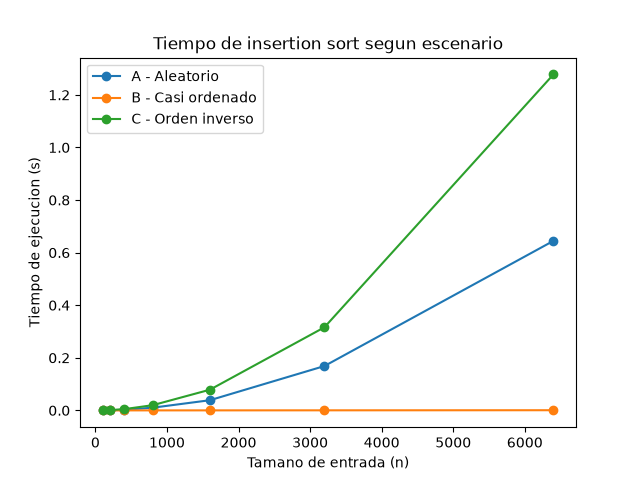
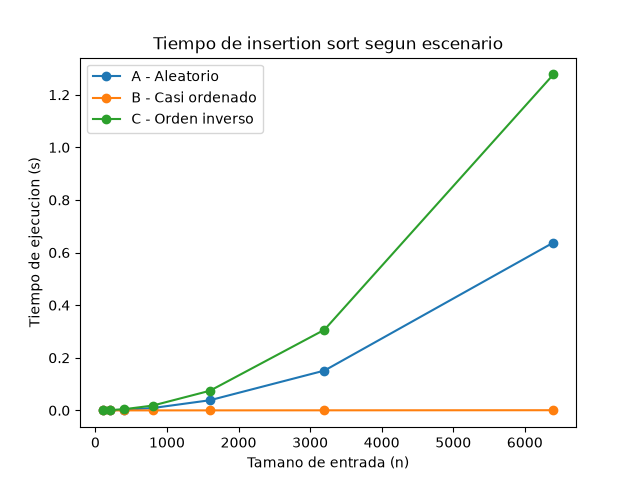
Corrige laboratorio 1 segun retroalimentacion

diff --git a/lab1-fundamentos-complejidad-recurrencias/parte4_complejidad.py b/lab1-fundamentos-complejidad-recurrencias/parte4_complejidad.py
@@ -3,14 +3,22 @@
 import time
 import matplotlib.pyplot as plt
 
-from algoritmos import insertion_sort, merge_sort
+from algoritmos import insertion_sort, mediana_de_tres, merge_sort
 from datos import generar_aleatorio
 
 TAMANOS = [100, 200, 400, 800, 1600, 3200, 6400]
 REPETICIONES = 3
 
 
-def medir():
+def medir() -> tuple[list[float], list[float]]:
+    """Mide el tiempo de insertion sort y merge sort en el escenario A.
+
+    Cada tamano se mide REPETICIONES veces y se reporta la mediana.
+
+    Returns:
+        Una tupla con la lista de tiempos (segundos) de insertion sort
+        y la de merge sort, una entrada por cada tamano de TAMANOS.
+    """
     tiempos_insertion, tiempos_merge = [], []
     for n in TAMANOS:
         lote = generar_aleatorio(n)
@@ -20,19 +28,25 @@ def medir():
             inicio = time.perf_counter()
             insertion_sort(lote)
             reps.append(time.perf_counter() - inicio)
-        tiempos_insertion.append(sorted(reps)[REPETICIONES // 2])
+        tiempos_insertion.append(mediana_de_tres(*reps))
 
         reps = []
         for _ in range(REPETICIONES):
             inicio = time.perf_counter()
             merge_sort(lote)
             reps.append(time.perf_counter() - inicio)
-        tiempos_merge.append(sorted(reps)[REPETICIONES // 2])
+        tiempos_merge.append(mediana_de_tres(*reps))
 
     return tiempos_insertion, tiempos_merge
 
 
-def graficar(tiempos_insertion, tiempos_merge):
+def graficar(tiempos_insertion: list[float], tiempos_merge: list[float]) -> None:
+    """Genera y guarda la grafica de tiempo de ambos algoritmos.
+
+    Args:
+        tiempos_insertion: tiempos de insertion sort por tamano.
+        tiempos_merge: tiempos de merge sort por tamano.
+    """
     plt.figure()
     plt.plot(TAMANOS, tiempos_insertion, marker="o", label="Insertion sort")
     plt.plot(TAMANOS, tiempos_merge, marker="o", label="Merge sort")

diff --git a/lab1-fundamentos-complejidad-recurrencias/parte3_casos.py b/lab1-fundamentos-complejidad-recurrencias/parte3_casos.py
@@ -3,7 +3,7 @@
 import time
 import matplotlib.pyplot as plt
 
-from algoritmos import insertion_sort
+from algoritmos import insertion_sort, mediana_de_tres
 from datos import generar_aleatorio, generar_casi_ordenado, generar_inverso
 
 TAMANOS = [100, 200, 400, 800, 1600, 3200, 6400]
@@ -16,7 +16,16 @@ ESCENARIOS = {
 }
 
 
-def medir():
+def medir() -> dict[str, dict[str, list]]:
+    """Mide tiempo y comparaciones de insertion sort en cada escenario.
+
+    Cada tamano se mide REPETICIONES veces y se reporta la mediana
+    del tiempo.
+
+    Returns:
+        Diccionario por escenario con las listas "tiempos" (segundos)
+        y "comparaciones", una entrada por cada tamano de TAMANOS.
+    """
     resultados = {nombre: {"tiempos": [], "comparaciones": []} for nombre in ESCENARIOS}
     for nombre, generador in ESCENARIOS.items():
         for n in TAMANOS:
@@ -27,12 +36,17 @@ def medir():
                 inicio = time.perf_counter()
                 _, comparaciones = insertion_sort(lote)
                 tiempos_rep.append(time.perf_counter() - inicio)
-            resultados[nombre]["tiempos"].append(sorted(tiempos_rep)[REPETICIONES // 2])
+            resultados[nombre]["tiempos"].append(mediana_de_tres(*tiempos_rep))
             resultados[nombre]["comparaciones"].append(comparaciones)
     return resultados
 
 
-def graficar(resultados):
+def graficar(resultados: dict[str, dict[str, list]]) -> None:
+    """Genera y guarda las graficas de comparaciones y de tiempo.
+
+    Args:
+        resultados: diccionario devuelto por medir().
+    """
     plt.figure()
     for nombre, datos in resultados.items():
         plt.plot(TAMANOS, datos["comparaciones"], marker="o", label=nombre)

diff --git a/lab1-fundamentos-complejidad-recurrencias/algoritmos.py b/lab1-fundamentos-complejidad-recurrencias/algoritmos.py
@@ -42,12 +42,24 @@ def merge_sort(datos: list[int]) -> tuple[list[int], int]:
         comparaciones entre elementos realizadas durante el proceso.
     """
     def _mezclar_ordenar(lista: list[int]) -> tuple[list[int], int]:
+        """Divide la lista en dos mitades, las ordena y las mezcla.
+
+        En un empate toma primero el elemento de la izquierda, lo que
+        hace al algoritmo estable.
+
+        Args:
+            lista: sublista de indices de riesgo a ordenar.
+
+        Returns:
+            Una tupla con la sublista ordenada de mayor a menor y el
+            numero de comparaciones realizadas.
+        """
         if len(lista) <= 1:
             return lista, 0
         medio = len(lista) // 2
         izq, comp_izq = _mezclar_ordenar(lista[:medio])
         der, comp_der = _mezclar_ordenar(lista[medio:])
-        resultado = []
+        resultado : list[int] = []
         i = j = 0
         comparaciones = comp_izq + comp_der
         while i < len(izq) and j < len(der):
@@ -63,3 +75,17 @@ def merge_sort(datos: list[int]) -> tuple[list[int], int]:
         return resultado, comparaciones
 
     return _mezclar_ordenar(datos.copy())
+
+
+def mediana_de_tres(a: float, b: float, c: float) -> float:
+    """Devuelve la mediana de tres valores sin usar funciones de ordenamiento.
+
+    Args:
+        a: primer valor.
+        b: segundo valor.
+        c: tercer valor.
+
+    Returns:
+        El valor que queda en medio al quitar el minimo y el maximo.
+    """
+    return a + b + c - min(a, b, c) - max(a, b, c)

diff --git a/lab1-fundamentos-complejidad-recurrencias/README.md b/lab1-fundamentos-complejidad-recurrencias/README.md
@@ -17,7 +17,7 @@
    cd lab1-fundamentos-complejidad-recurrencias
    python parte3_casos.py
 ```
-4. Para generar la gráfica de la Parte 4 (cuando esté lista):
+4. Para generar la gráfica de la Parte 4:
 ```bash
    python parte4_complejidad.py
 ```
@@ -25,11 +25,11 @@
 
 ## Parte 1 — Analizar el algoritmo antes de comprar hardware
 
-Hay que encontrar primero que todo la causa raiz, si sabemos que el algoritmo esta diseñado con cierto patrón, que es un poco mas desactualizado y no cumple con lo requerido, insertion sort no es eficiente en tiempo de ejecución para 1'200.000 registros. Con lo que dices podemos deducir que Tamiza cumple su objetivo de ordenar correctamente pero incumple el rango de tiempo, que algo funcione correctamente no quiere decir que sea lo mas productivo.
+Hay que encontrar primero que todo la causa raiz, si sabemos que el algoritmo esta diseñado con cierto patrón, que es un poco mas desactualizado y no cumple con lo requerido, insertion sort no es eficiente en tiempo de ejecución para 1'200.000 registros. Con lo que dices podemos deducir que Tamiza cumple su objetivo de ordenar correctamente pero incumple la restriccion de la ventana de cuatro horas (entre las 2:00 a.m y las 6:00 a.m) que no es negociable, que algo funcione correctamente no quiere decir que sea lo mas productivo.
 
 Duplicar la velocidad del servidor puede resolver hasta cierta parte, pero insertion sort tiene una ecuacion cuadratica, lo que nos indica que si el numero de registros se duplica, los recursos necesarios no van a ser solo el doble tambien, si no que sera cuadriplicado. Un servidor que sea mas rapido solo mejora un poco comparado con lo anterior, pero un buen algoritmo le gana a un mejor servidor. Esto sin contar que es mucho mas alto el costo de, cada vez que incremente los registros, aumentar la capacidad del servidor, comparado con la inversion del algortimo que seria unica.
 
-El siaweb del itm hace 1 o 2 años, en las asesorias de matricula para elegir materias de los estudiantes, siempre generaba una sesion demasiado lenta por el alto volumen de estudiantes: eran 26mil en la sesion al mismo tiempo. Esto hacia que muchos estudiantes perdieramos el cupo en materias o grupos que necesitabamos por la alta demora en las peticiones. Lo que yo experimenté en el software fue una mejora muy grande, ya que en el momento es muchisimo mejor y no causa problema al momento de hacer la asesoria, y ese numero en la sesion ha incrementado a aproximadamente 30mil.
+Un ejemplo propio es el siaweb del itm hace 1 o 2 años, en las asesorias de matricula para elegir materias de los estudiantes, siempre generaba una sesion demasiado lenta por el alto volumen de estudiantes: eran 26mil en la sesion al mismo tiempo. Esto hacia que muchos estudiantes perdieramos el cupo en materias o grupos que necesitabamos por la alta demora en las peticiones. Desconozco qué algoritmo concreto usaba el sistema (por eso no afirmo que fuera insertion sort), pero muestra el mismo patrón: algo que funcionaba con poca carga y falló al crecer. Lo que yo experimenté en el software fue una mejora muy grande, ya que en el momento es muchisimo mejor y no causa problema al momento de hacer la asesoria, y ese numero en la sesion ha incrementado a aproximadamente 30mil sin presentar estos problemas.
 
 
 ## Parte 2 — Responsabilidad ambiental y ética de la implementación
@@ -42,12 +42,22 @@ No solo se convierte en perjuicio, como lo indique antes, para los pacientes, si
 
 Desde una vista de profesionales se debe tener una responsabilidad etica y moral: productos realizados con excelente calidad desde un principio, cubriendo todos los posibles escenarios. No basta solo con que termine a tiempo, si no que no hayan errores silenciosos, que se genere un trabajo limpio, correcto y puntual. En este ambito no se corren los mismos riesgos que en un error de facturacion o algo similar, que solo es un problema de dinero; aqui estamos hablando de daños irreparables en la salud o hasta perder una vida.
 
+El orden de la lista decide a quién se llama primero: el centro de contacto llama de arriba hacia abajo desde las 6:00 a. m., así que la posición en la lista es la prioridad de atención del paciente. Si el ordenamiento falla en un solo registro, un paciente de riesgo alto queda debajo de uno de riesgo bajo y es contactado más tarde, o ni siquiera ese día. Por eso el ordenamiento debe ser correcto siempre y en los tres escenarios, no solo "casi siempre".
+
 
 ## Parte 3 — Peor caso, mejor caso y caso promedio, demostrados en Python
 
 ### 3.1 — Explicación
 
-Teniendo un pensamiento mas critico de los posibles escenarios que son posibles que lleguen a ocurrir dependiendo del canal de origen de los datos para ese dia, para todos los casos tendremos un numero n definido que sea por ejemplo el 5 entonces, el escenario A es el que llega directamente como reciben los datos, es decir de una forma aleatoria, esto es demasiada carga para el servidor, porque debe comparar dato por dato, en un rango muy amplio, cada dato o registro es comparado con todos los menores hasta encontrar su lugar de origen, puede que en algunas partes se encuentren datos muy seguidos entonces eso es bueno pero no en todos se asegura, por todo lo anterior explicado en terminos de tiempo y efectividad este seria el caso promedio y tomando como referencia el n que dimos anteriormente es posible que vengan en el orden menos conveniente para ordenar los datos completamente toque hacer las maximas iteraciones que en ese caso serian 5, ahora abordamos el escenario B que a mi parecer viene siendo el mejor caso debido a que ya tenemos el 98% de los registros ordenados por riesgo, sigue existiendo un 2% sin ordenar que se va automaticmante al final, pero se corre un menor riesgo ya que la mayor parte del trabajo se ha realizado, teniendo en cuenta el n anterior los datos quedan ordenados el principio como se requiere, y al final quedan los quue no se alcanzaron a evaluar, pero seria un riesgo mas minimo comparado con todos los demas, y el ultimo escenario el C es el peor caso ya que los datos vienen ordenados pero ascendentemente, este es el que mas recursos consumiria al momento de reorganizar, porque el ultimo sera el primero y el primero sera el último, hay que invertir el orden completamente, es decir el que mas tiempo gastaria, y nuevamente haciendo un analisis con el n = 5 este si o si obligaria a hacer el maximo de iteraciones posibles, en este caso 5, en general el gran problema aqui es que hay 3 metodos diferentes de obtencion de los datos y tenemos solo un rango de 4 horas, depende del metodo que haya llegado un dia va a corresponder la vida de las personas que esten en los registros de ese dia muy bien donde todos los dias llegara el mejor caso, pero eso no es asegurable esto se convierte en otro problema aun mayor.
+Para un tamaño de entrada n fijo, las entradas posibles son todas las ordenaciones posibles de los n registros. El peor caso es el costo máximo sobre ese conjunto de entradas; el mejor caso es el costo mínimo; y el caso promedio es el costo promedio sobre todas ellas (suponiendo todas igual de probables). Los escenarios del problema son representantes: C (orden inverso) es el peor caso, B (casi ordenado) se acerca al mejor caso y A (aleatorio) representa el caso promedio.
+
+Predicción (antes del experimento). Con n = 5 como ejemplo y ordenando de mayor a menor:
+
+- C (inverso): cada elemento debe compararse con todos los anteriores: n(n−1)/2 = 10 comparaciones. Es el más lento.
+- B (casi ordenado): casi cada elemento queda en su lugar con una sola comparación (≈ n−1 = 4), más el trabajo de acomodar el 2 % nuevo del final. Es el más rápido.
+- A (aleatorio): en promedio cada elemento se compara con la mitad de los anteriores: ≈ n(n−1)/4 = 5. Queda entre B y C.
+
+Orden esperado de tiempo: B < A < C. El "peor caso" no es "cinco iteraciones", sino el máximo de comparaciones, que crece como n².
 
 Precisamente por esto, para decidir si el algoritmo entra en producción usaria el peor caso, porque es el unico que da una garantia real, si el sistema se diseña pensando en que siempre va a llegar el escenario mas favorable (B) y un dia llega el escenario C, el proceso no alcanzaria a caber en las 4 horas, y eso pondria en riesgo directamente a los pacientes. El peor caso asegura que, pase lo que pase con el canal de origen ese dia, el sistema sigue funcionando dentro del limite.
 
@@ -60,7 +70,9 @@ Precisamente por esto, para decidir si el algoritmo entra en producción usaria 
 
 Teniendo las graficas ya creadas, podemos comparar con nuestro analisis anteriormente hecho. Nos podemos dar cuenta que efectivamente el caso C de orden inverso era el peor escenario, el B que es el casi ordenado es el mejor escenario, el mas estable sin importar el n, y que el caso promedio era el de orden aleatorio.
 
-Como vemos en las graficas, hay cierta similitud o apego entre los 3 escenarios hasta antes del tamaño de entrada 1000, aproximadamente en 800. De ahi en adelante, con n mas altos, es que se empieza a ver la diferencia entre los escenarios y la volatilidad que presenta uno comparado con otro.
+Cada tamaño se midió tres veces y se reportó la mediana, para reducir el efecto de variaciones del sistema. La gráfica de tiempo se parece a la de comparaciones porque el trabajo de insertion sort está dominado por las comparaciones (y los desplazamientos que las acompañan), y cada comparación cuesta un tiempo casi constante: más comparaciones implican, proporcionalmente, más tiempo.
+
+Como vemos en las graficas, hay cierta similitud o apego entre los 3 escenarios hasta antes del tamaño de entrada 1000, aproximadamente en 1000. De ahi en adelante, con n > 1000, es que se empieza a ver la diferencia entre los escenarios y la volatilidad que presenta uno comparado con otro.
 
 Tenia sentido mi argumentacion de la parte 3.1, debido a que insertion sort tiene una forma de comparacion hacia atras, esto nos quiere decir que el orden inverso lo obliga a hacer el mayor numero de iteraciones.
 
@@ -136,6 +148,20 @@ En el mejor caso (escenario B, casi ordenado), el bucle interno `while` se ejecu
 
 **O(n)**
 
+Sea cᵢ el costo constante de cada línea: c₁ el for, c₂ actual, c₃ j, c₄ while, c₅ comparaciones, c₆ el if, c₇ el desplazamiento, c₈ j -= 1 y c₉ la asignación final.
+
+Peor caso (suma de todas las líneas):
+
+T(n) = (c₁+c₂+c₃+c₉)(n−1) + (c₄+c₅+c₆+c₇+c₈)·n(n−1)/2 = an² + bn + c → O(n²)
+
+Mejor caso: el while hace una sola pasada por elemento (compara y hace break), así que no se ejecutan c₇ ni c₈:
+
+T(n) = (c₁+c₂+c₃+c₄+c₅+c₆+c₉)(n−1) = an + b → O(n)
+
+Caso promedio: cada elemento se compara en promedio con la mitad de los anteriores (i/2), así que el bucle interno suma ≈ n(n−1)/4:
+
+T(n) = (c₁+c₂+c₃+c₉)(n−1) + (c₄+c₅+c₆+c₇+c₈)·n(n−1)/4 = an² + bn + c → O(n²)
+
 ### Tabla de complejidades
 
 | Algoritmo | Mejor caso | Peor caso | Caso promedio |
@@ -147,22 +173,20 @@ En el mejor caso (escenario B, casi ordenado), el bucle interno `while` se ejecu
 
 ![Tiempo de insertion sort vs merge sort](graficas/parte4_tiempo.png)
 
-Viendo la grafica podemos darnos cuenta cual algoritmo le conviene mas a Tamiza, mientras que insertion sort a medida que sube n
-vemos que el tiempo incrementa en un medida muy desproporcional a la necesidad, comparado con el algoritmo mas conveniente
-merge sort, que en la grafica se muestra que se queda casi pegada al eje X, haciendo otra comparacion en el insertion sort cuando
-n = 6000 el tiempo requerido es aproximadamente 0.6s en cambio merge sort es un numero muy cercano a 0s, la mejor opcion es merge sort  porque es muchisimo mas escalable y no es tan inestable con el aumento de datos.
+Viendo la grafica podemos darnos cuenta cual algoritmo le conviene mas a Tamiza, mientras que insertion sort a medida que sube n vemos que el tiempo incrementa en un medida muy desproporcional a la necesidad, comparado con el algoritmo mas conveniente merge sort, que en la grafica se muestra que se queda casi pegada al eje X, haciendo otra comparacion en el insertion sort cuando n = 6400 el tiempo requerido es aproximadamente 0.65s en cambio merge sort es un numero muy cercano a 0s, la mejor opcion es merge sort  porque es muchisimo mas escalable y no es tan inestable con el aumento de datos.
 
-Esto coincide con lo calculado en la parte 4.1, insertion sort al ser una operacion O(n^2) se va a disparar exponencialmente
-hacia arriba con el incremento de datos mientras que merge sort basado en una operacion O(nLog(n)) se mantiene casi estable aprovechando mejor la complejidad de las complicaciones del software, esto mismo argumenta lo que vemos en los numeros mas bajos de la grafica, como son numeros muy bajitos no se nota tanto la diferencia, se empiezan a diferenciar y a coger rumbos muy diferentes entre los 2 metodos en aproximadamente 500 datos
+Esto coincide con lo calculado en la parte 4.1, insertion sort al ser una operacion O(n^2) crece de forma cuadratica con el incremento de datos mientras que merge sort basado en una operacion O(nLog(n)) se mantiene casi estable aprovechando mejor la complejidad de las complicaciones del software, esto mismo argumenta lo que vemos en los numeros mas bajos de la grafica, como son numeros muy bajitos no se nota tanto la diferencia, se empiezan a diferenciar y a coger rumbos muy diferentes entre los 2 metodos en aproximadamente 1000 datos
 
 ### 4.3 — Concepto técnico a la Secretaría de Salud
 
-Recomendamos de forma explicita e implementacion unica reemplazar el algoritmo actual por Merge Sort. Sabiendo que el canal de origen de los datos cambia sin previo aviso y que el equipo no busca mantener tres implementaciones diferentes, el criterio de decision se baso en la garantia del peor escenario posible. Como medimos en la Parte 3, Insertion Sort en su peor caso (orden inverso) dispara el numero de comparaciones exponencialmente a medida que sube $n$, volviendolo altamente volatil y riesgoso. Merge Sort, en cambio, mantiene un comportamiento estable $O(n \log n)$ sin importar el canal de origen que llegue ese dia, garantizando predictibilidad operativa.
+Recomendamos de forma explicita e implementacion unica reemplazar el algoritmo actual por Merge Sort. Sabiendo que el canal de origen de los datos cambia sin previo aviso y que el equipo no busca mantener tres implementaciones diferentes, el criterio de decision se baso en la garantia del peor escenario posible. Como medimos en la Parte 3, Insertion Sort en su peor caso (orden inverso) dispara el numero de comparaciones de forma cuadrática a medida que sube $n$, volviendolo altamente volatil y riesgoso. Merge Sort, en cambio, mantiene un comportamiento estable $O(n \log n)$ sin importar el canal de origen que llegue ese dia, garantizando predictibilidad operativa.
 
 Aclaramos que el siguiente calculo corresponde a una estimacion por extrapolacion de nuestras mediciones experimentales, no a una medicion directa sobre el total de datos.
 
 Tomando los datos medidos en la grafica de la Parte 4 para $n = 6.400$:
 Insertion Sort: tardo aproximadamente 0.65 segundos. Como su complejidad es $O(n^2)$, al escalar el tamaño de entrada por un factor de $K = \frac{1.200.000}{6.400} = 187.5$, el tiempo se multiplica por $K^2 = 35.156,25$. Esto nos da una estimacion de $0.65 \times 35.156,25 \approx 22.851 \text{ segundos}$ (6.34 horas). Por lo tanto, el algoritmo actual no cabe en la ventana operativa de 4 horas.
 Merge Sort: tardo aproximadamente 0.01 segundos para $n = 6.400$. Escalando mediante la relacion $O(n \log n)$, el tiempo estimado para 1.200.000 registros es de aproximadamente 2.7 a 3.5 segundos. Por ende, Merge Sort cumple de sobra con el limite de las 4 horas, procesando la carga en cuestion de segundos.
+
+Además del tiempo hay dos consideraciones. Memoria: merge sort necesita memoria auxiliar de O(n) para mezclar (con 1.200.000 registros, una copia adicional de la lista), mientras que insertion sort ordena en el lugar con O(1) extra; el servidor debe tener esa memoria disponible. Estabilidad: merge sort es estable (en un empate toma primero el elemento de la izquierda), así que los registros con el mismo índice de riesgo conservan su orden relativo de llegada, lo que da un desempate predecible en la lista de llamadas.
 
 Respondemos de manera directa que comprar un servidor con el doble de velocidad NO resuelve el problema. Basandonos en la grafica medida en la Parte 4 para $n = 6.400$, reducir el tiempo de Insertion Sort a la mitad pasaria de 0.65s a 0.325s por lote pequeño. Al llevar esto a la extrapolacion de 1.200.000 registros, el tiempo pasaria de 6.34 horas a 3.17 horas. Aunque teoricamente cae por debajo de las 4 horas, deja un margen de error nulo ante picos de datos o procesos concurrentes, manteniendo un costo de hardware recurrente e innecesario. Un cambio algoritmico pasa de horas a segundos sin gastar en infraestructura.
